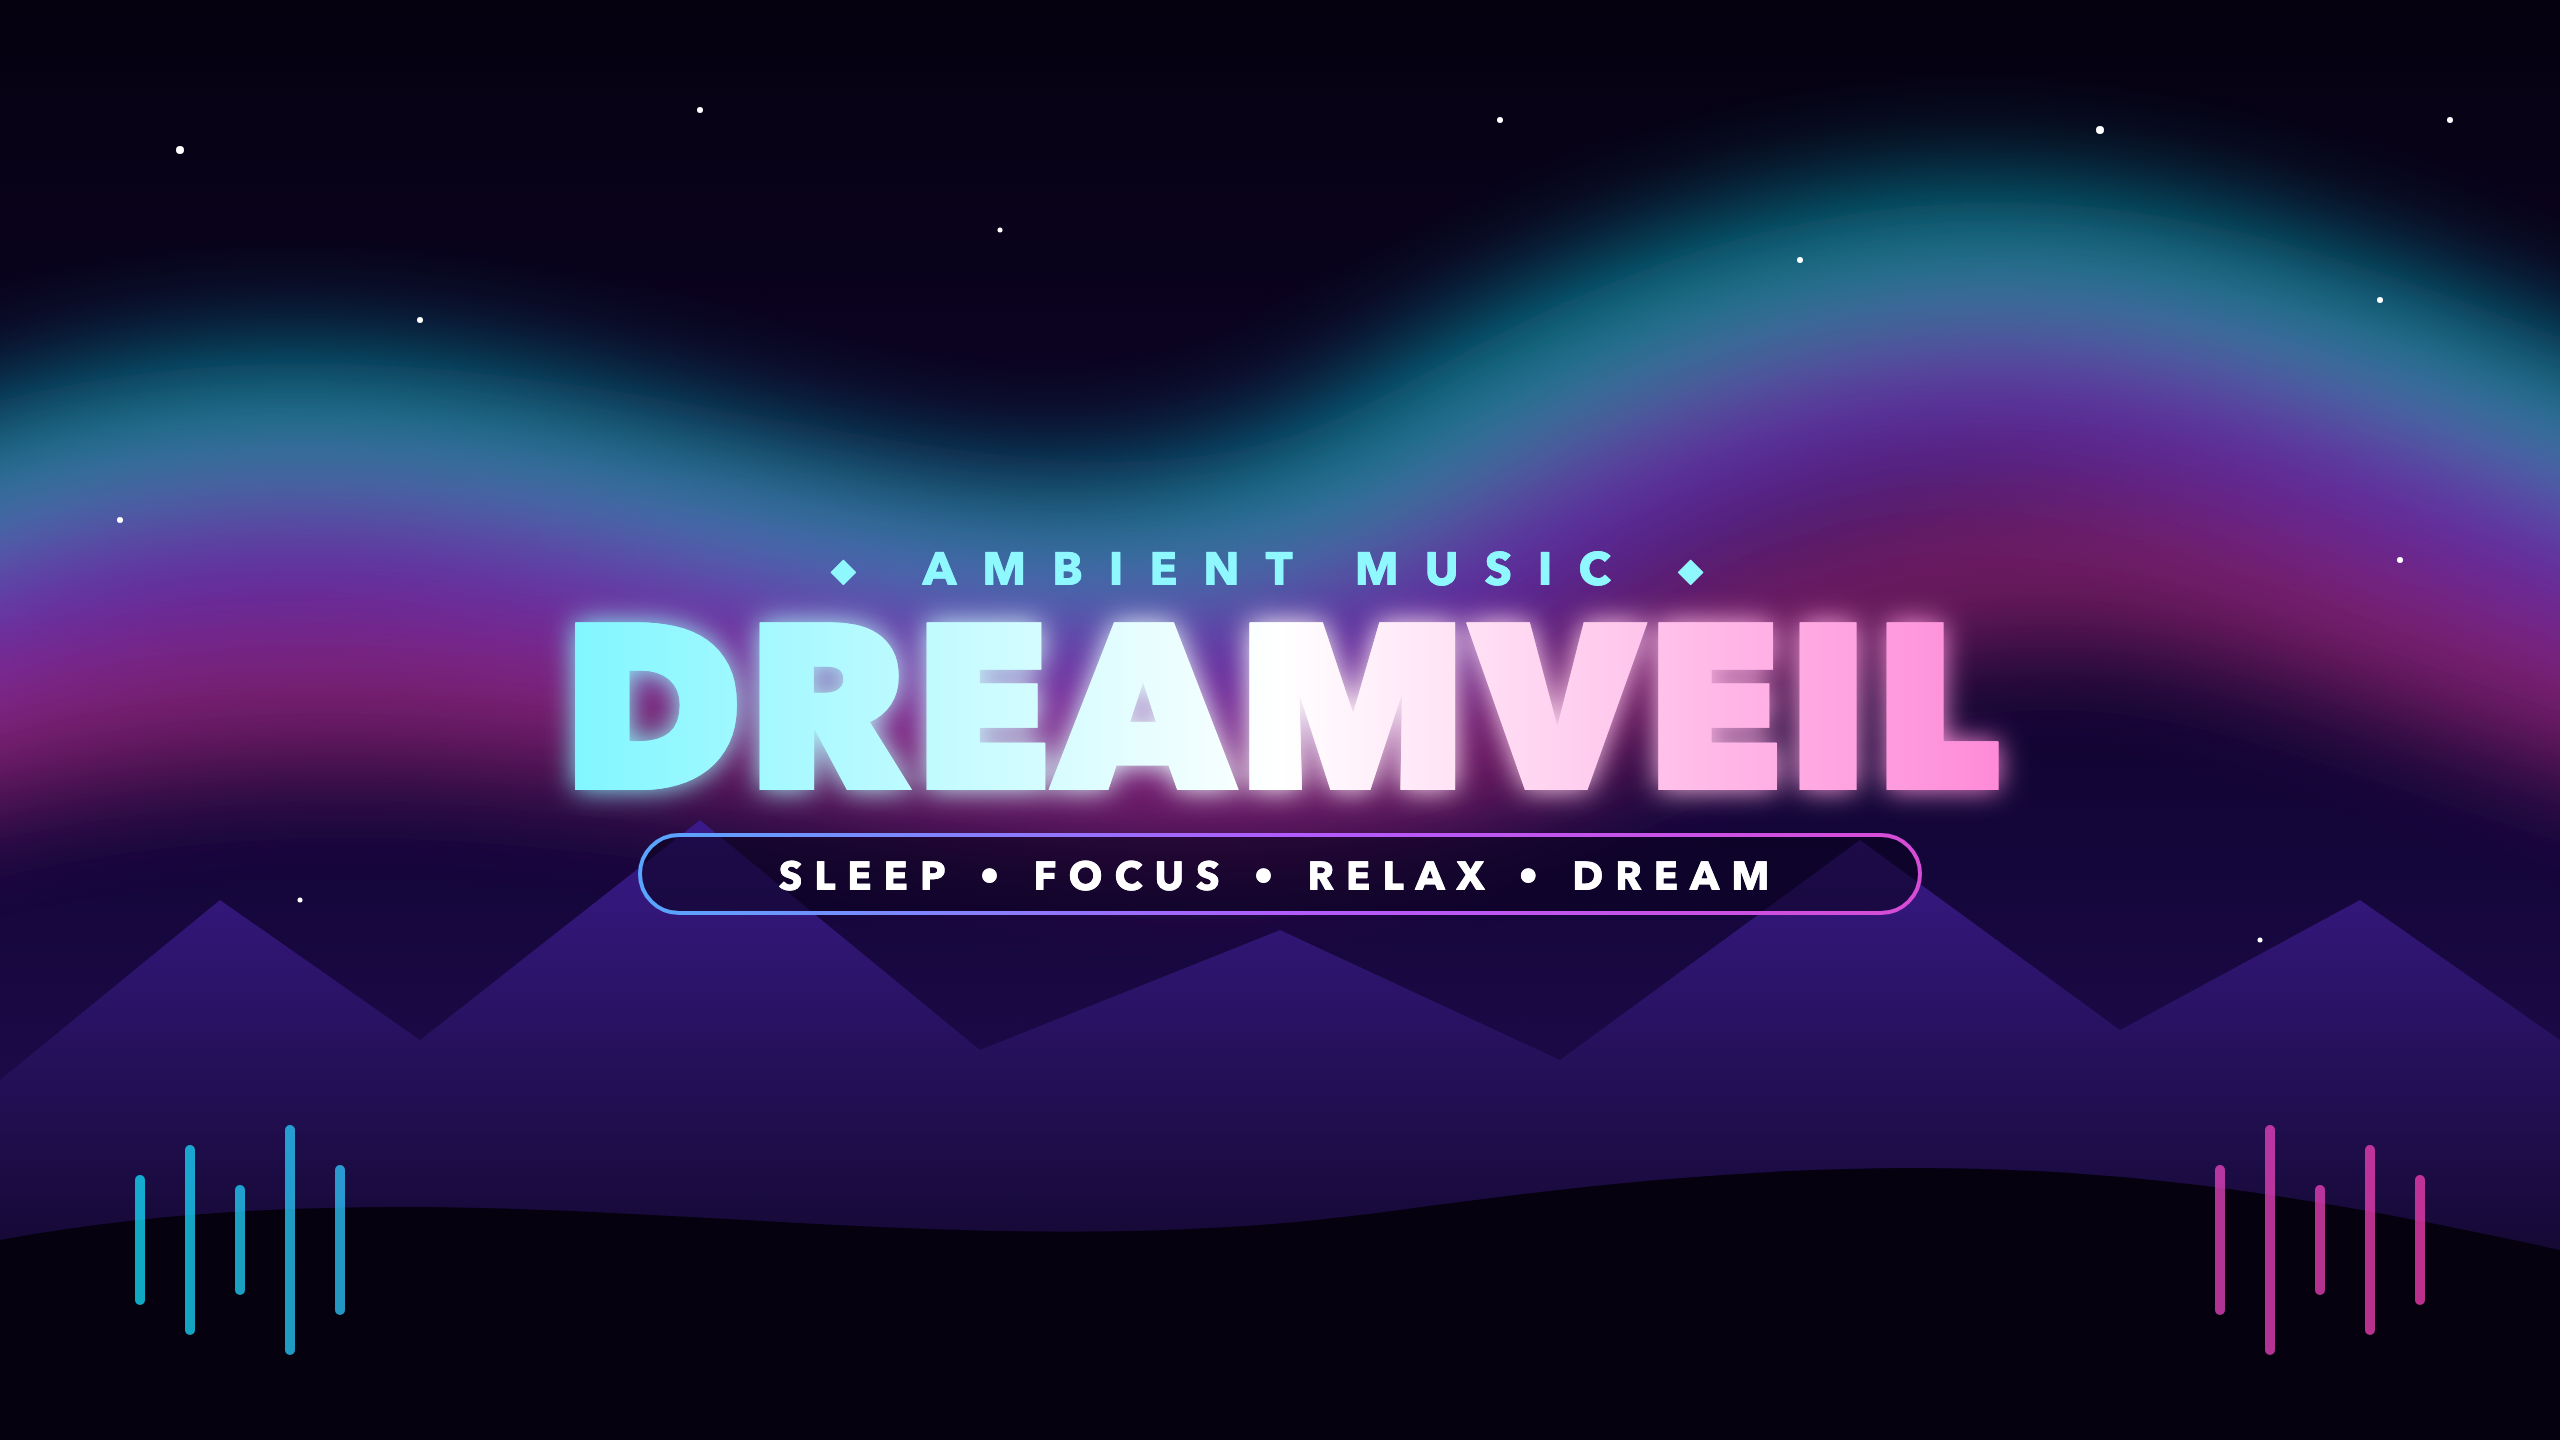
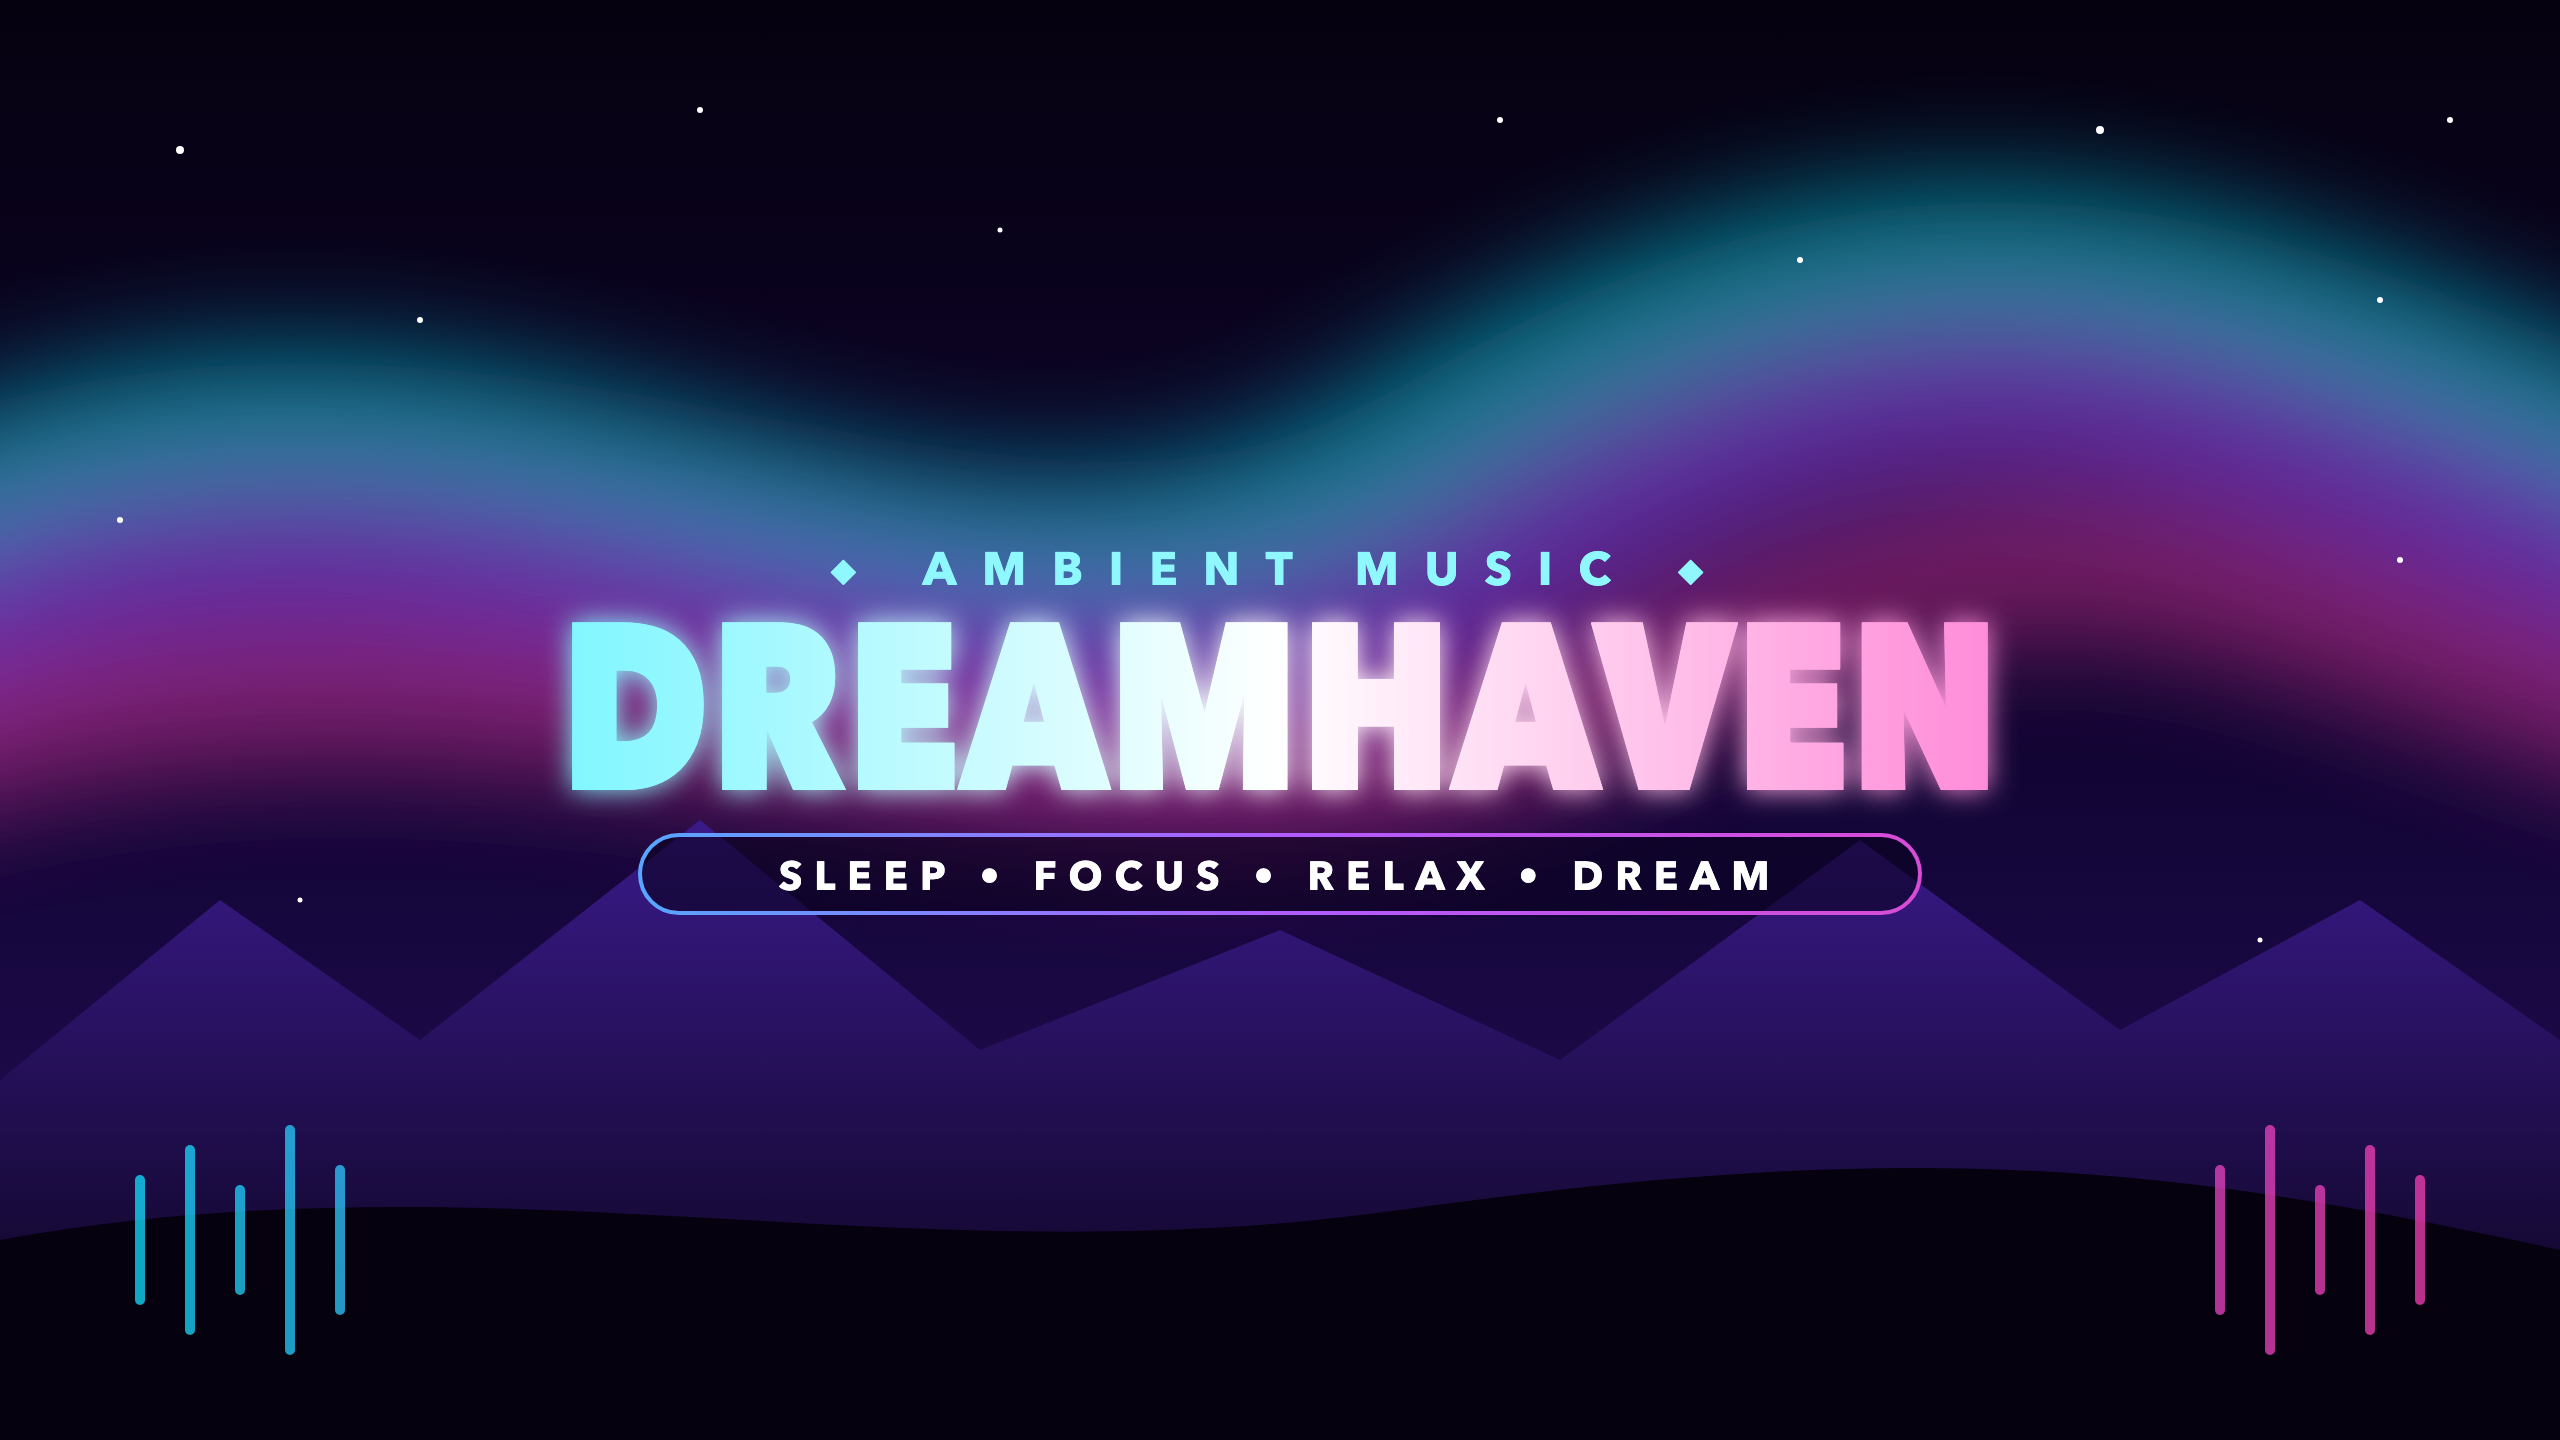
Rename channel to Dreamhaven

Changed region(s): [[0.2188, 0.4062, 0.7812, 0.5625]]

diff --git a/channel-info.md b/channel-info.md
@@ -1,13 +1,17 @@
-# DREAMVEIL — YouTube Channel Brand Kit
+# DREAMHAVEN — YouTube Channel Brand Kit
 
 ## Channel name
-**Dreamveil** (handle suggestion: @Dreamveil or @DreamveilAmbient)
+**Dreamhaven** (handle suggestion: @Dreamhaven or @DreamhavenAmbient)
 Tagline: *Ambient music for focus, sleep & calm.*
 
 ## Other name options
 | Name | Why it works |
 |---|---|
-| **Dreamveil** (chosen) | Short, easy to remember, evokes dreams and sleep |
+| **Dreamhaven** (chosen) | "Dream" + "haven": a safe place to relax and sleep |
+| Dreamveil | Previous choice, soft and mysterious |
+| Dreamdrift Ambient | Dream + slow floating sound |
+| Dreamwave | Short, modern, sound-wave feel |
+| Dreamscape Ambient | Fits soundscape music, strong search keywords |
 | Nightbloom Ambient | Soft, visual, great for sleep music |
 | Hushwave | Calm + wave of sound, unique |
 | Echo Haven | A safe place made of sound |
@@ -24,7 +28,7 @@ Void #05010F · Deep Purple #2A0F5E · Neon Cyan #00F0FF · Violet #A24BFF · Ho
 Font: Avenir Next Heavy / Montserrat Black (free alternative) for the name; wide-spaced Bold for sub-text.
 
 ## Channel description (About tab — paste in)
-Welcome to Dreamveil — a calm corner of the internet for ambient music.
+Welcome to Dreamhaven — a calm corner of the internet for ambient music.
 
 Slow-evolving soundscapes, warm synth pads, soft piano and deep drones, made to help you focus, study, meditate, relax and fall asleep.
 
@@ -39,7 +43,7 @@ New long-form ambient mixes every week (1–10 hours), free of ads inside the mu
 💬 Tell us in the comments what you'd like to hear next.
 
 📩 Business inquiries: yourname@email.com
-© Dreamveil. All music is original. Please do not re-upload.
+© Dreamhaven. All music is original. Please do not re-upload.
 
 ## Channel keywords (Settings → Channel → Basic info)
 ambient music, ambient, relaxing music, sleep music, focus music, study music, meditation music, deep focus, calm music, drone ambient, space ambient, cinematic ambient, soundscape, background music, lofi ambient, brain music, relaxation, piano ambient, work music, chill
@@ -51,7 +55,7 @@ ambient music, ambient, relaxing music, sleep music, focus music, study music, m
 - Business email: yourname@email.com
 
 ## Channel trailer / featured video
-Title: Welcome to Dreamveil — Ambient Music for Focus, Sleep & Calm
+Title: Welcome to Dreamhaven — Ambient Music for Focus, Sleep & Calm
 Description: A short introduction (60–90 s) with a slow ambient excerpt and the channel logo.
 
 ## Sections (Home tab)
@@ -63,7 +67,7 @@ Description: A short introduction (60–90 s) with a slow ambient excerpt and th
 Category: Music · Language: English · License: Standard YouTube
 Default tags: ambient music, relaxing music, sleep music, focus music, study music, deep focus, meditation, soundscape
 Default description footer:
-"🎵 Dreamveil — ambient music for focus, sleep & calm. Subscribe for new soundscapes every week."
+"🎵 Dreamhaven — ambient music for focus, sleep & calm. Subscribe for new soundscapes every week."
 
 ## Video title formulas
 - Deep Sleep Ambient Music — 8 Hours of Calm Night Soundscape

diff --git a/README.md b/README.md
@@ -1,4 +1,4 @@
-# Dreamveil — YouTube Channel Brand Kit
+# Dreamhaven — YouTube Channel Brand Kit
 
 Ambient music channel branding (English).
 
